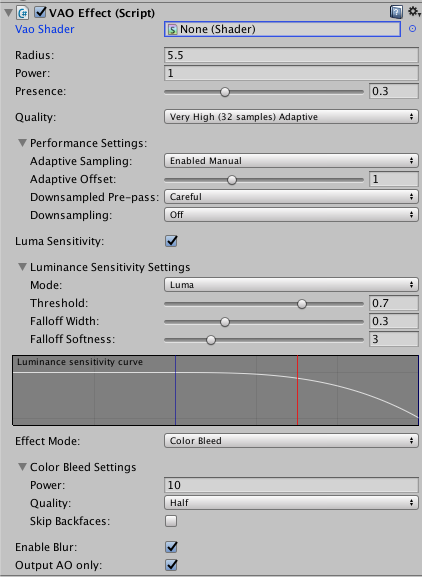
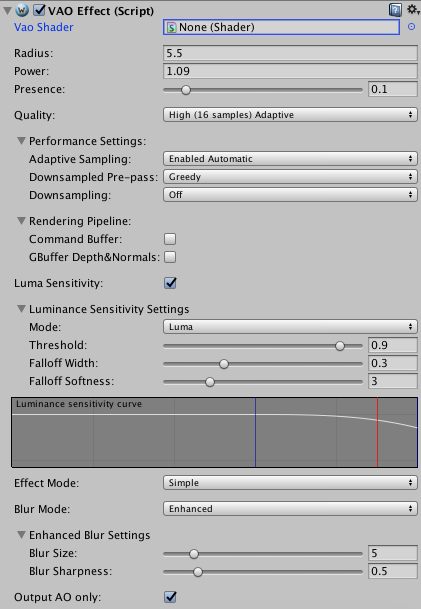
vao 1.6

diff --git a/vaomanual/index.md b/vaomanual/index.md
@@ -23,6 +23,7 @@ Volumetric Ambient Occlusion (VAO) is our Screen Space Ambient Occlusion for Uni
 You can [download free demo](https://projectwilberforce.github.io/vaodemo) or buy VAO at [Unity Asset Store](http://u3d.as/xzs).
 
 - High performance and visual quality
+- Compatible with other image effects including Unity Post-Processing stack
 - Compatible with all Unity rendering paths (Forward, Deferred and Legacy) and anti-aliasing
 - No haloing artefacts
 - No self-intersections
@@ -108,6 +109,14 @@ Speeds up the calculation by downsampling the parts without occlusion. Results i
 - *Greedy*: Skips areas that are unoccluded in the downsampled prepass. Fast, but may cause small loss of detail. 
 - *Careful*: Instead of skipping computes occlusion with low quality setting. Smaller performance speed-up but no loss of detail. 
 
+**Command Buffer**
+
+Insert effect via command buffer (BeforeImageEffectsOpaque event)
+
+**GBuffer Depth&Normal**
+
+Take depth&normals from GBuffer of deferred rendering path, use this for better precision. Note that this feature will cause some performance drop.
+
 **Downsampling**
 
 Reduces resolution of output, use this to gain performance at the cost of quality. Try lowering quality parameter first as this reduces quality dramatically. Having high quality setting with downsampling enabled serves no purpose.
@@ -153,9 +162,17 @@ Color Bleed has its own set of parameters.
 
 <iframe frameborder="0" class="juxtapose" width="100%" height="380" src="https://cdn.knightlab.com/libs/juxtapose/latest/embed/index.html?uid=28461d04-d41d-11e6-892e-0edaf8f81e27"></iframe>
 
-**Enable Blur**
+**Blur Mode**
 
-In case you are applying your own blur after VAO effect, you can try turning this off to save performance. Blur step included in VAO is fast and is part of its visual appearance, so you might consider keeping it on all the time.
+In case you are applying your own blur after VAO effect, you can try turning this off to save performance. Blur implementations included in VAO are fast and a part of its visual appearance, so you might consider keeping it on all the time.
+
+**Basic**
+
+Simple uniform 3x3 blur
+
+**Enhanced**
+
+If you need extra control over how is the occlusion blurred - with controls size and sharpness. Sizes of 3 or 5 can be faster than basic blur, but higher values will be slower. Sharpness does not affect performance.
 
 **Output AO only**
 
